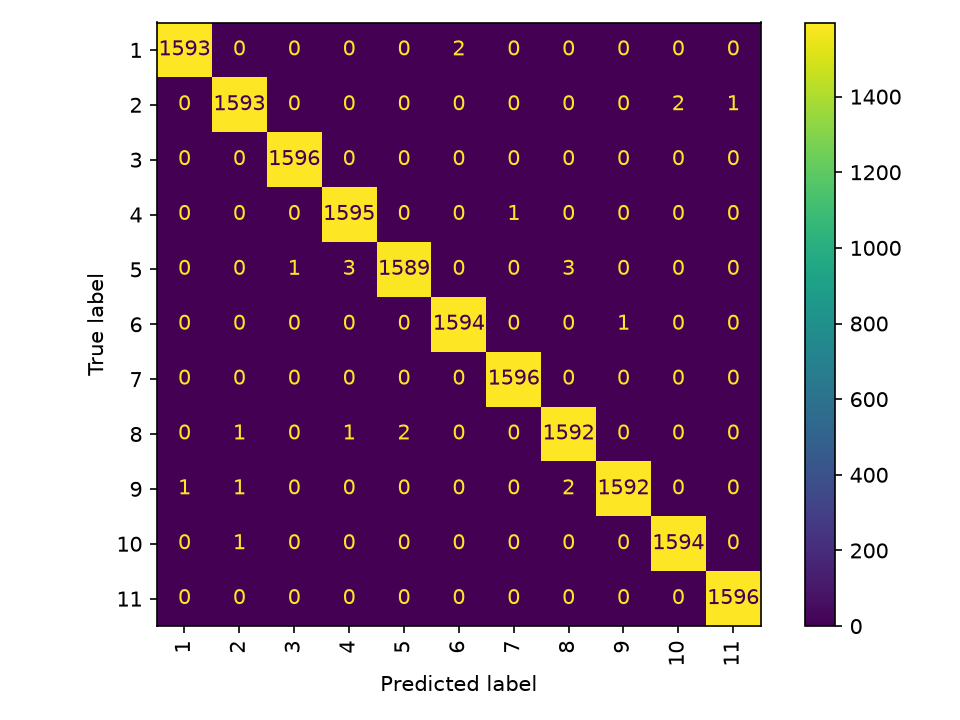
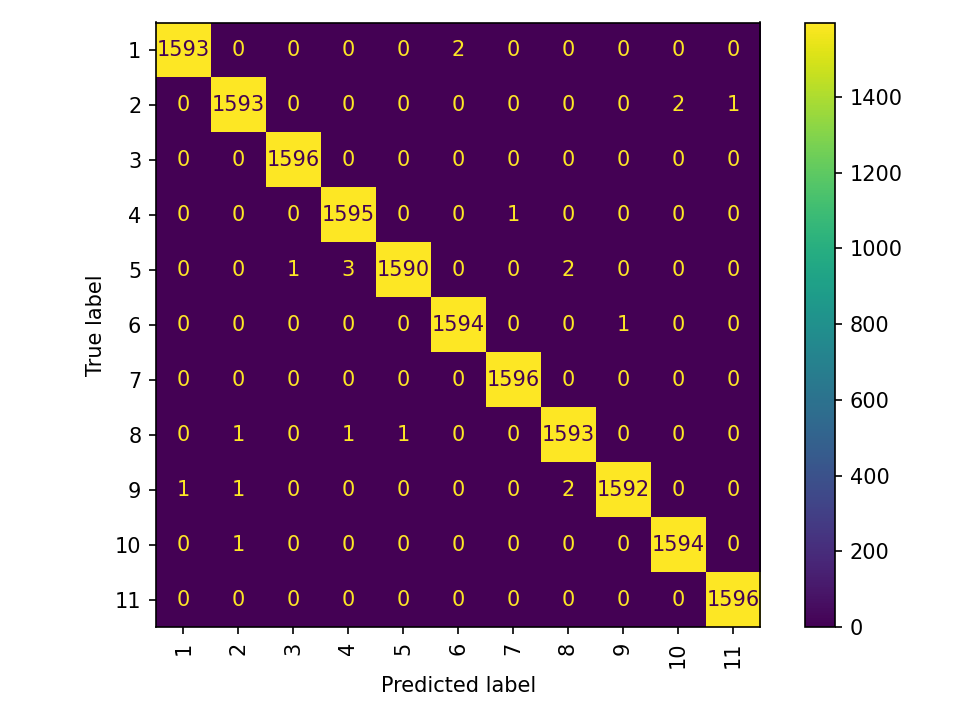
check reposirory

diff --git a/src/common.py b/src/common.py
@@ -1,4 +1,3 @@
-
 """
 Общие функции проекта Sensorless Drive Diagnosis (common.py).
 
@@ -86,20 +85,33 @@ scaler не возвращаем: для новых замеров в main.py х
 """
 
 
+
 def prepare(X_train, X_test):
     """
-    Сергей: z-нормализация без утечки теста.
-    1. StandardScaler.fit() — только на X_train.
-    2. К X_test применяется уже обученный scaler.
-    Возвращает: X_train, X_test — таблицы с теми же именами столбцов.
-    День 2: сюда добавятся решения Валерии (выбросы) и Юлии (лишние столбцы).
+    Нормализация без утечки данных:
+    параметры StandardScaler обучаются только на X_train.
+    Состав и порядок признаков должны совпадать.
     """
-    scaler = StandardScaler().fit(X_train)
-    X_train_s = pd.DataFrame(scaler.transform(X_train),
-                             columns=X_train.columns, index=X_train.index)
-    X_test_s = pd.DataFrame(scaler.transform(X_test),
-                            columns=X_test.columns, index=X_test.index)
-    return X_train_s, X_test_s
+    if not X_train.columns.equals(X_test.columns):
+        raise ValueError(
+            "X_train и X_test должны содержать одинаковые "
+            "столбцы в одинаковом порядке."
+        )
+
+    scaler = StandardScaler()
+    X_train_scaled = pd.DataFrame(
+        scaler.fit_transform(X_train),
+        columns=X_train.columns,
+        index=X_train.index,
+    )
+    X_test_scaled = pd.DataFrame(
+        scaler.transform(X_test),
+        columns=X_test.columns,
+        index=X_test.index,
+    )
+
+    return X_train_scaled, X_test_scaled
+
 
 
 """
@@ -146,7 +158,7 @@ def get_model(random_state=42):
     Настройки Жанны вносятся на день 3, после этого — заморозка.
     """
     return RandomForestClassifier(
-        n_estimators=200,
+        n_estimators=300,
         random_state=random_state,
         n_jobs=-1,
     )
@@ -184,4 +196,3 @@ if __name__ == '__main__':
     X_train_s, X_test_s = prepare(X_train, X_test)
     print(X_train_s.columns[:3].tolist())  # имена столбцов сохранились
     print(outliers(X_train, X).any(axis=1).mean())  # доля строк с выбросами
-

diff --git a/src/README.md b/src/README.md
@@ -1,0 +1,50 @@
+# День 1 — Sensorless Drive Diagnosis
+
+## Файлы
+
+- `common.py` — общие функции проекта.
+- `example.py` — минимальный сценарий: prepare → get_model → fit → evaluate.
+- `Sensorless_drive_diagnosis.txt` — исходные данные.
+
+## Что реализовано
+
+### `prepare()`
+
+- принимает исходный TXT или таблицу;
+- использует первые 48 столбцов как признаки;
+- последний столбец — класс;
+- выполняет stratified train/test split 70/30;
+- `StandardScaler.fit()` вызывается только на обучающей части;
+- тестовая часть преобразуется тем же scaler.
+
+Это предотвращает утечку информации из теста.
+
+### `evaluate()`
+
+Считает:
+
+- `accuracy_score`;
+- `f1_score(..., average="macro")`;
+- по запросу показывает `ConfusionMatrixDisplay`.
+
+### `get_model()`
+
+Возвращает `RandomForestClassifier`.
+
+Параметры модели пока базовые — это заготовка Дня 1. Финальные настройки из команды должны быть внесены позже.
+
+### `outliers()`
+
+Ищет строки, в которых хотя бы один из 48 признаков имеет:
+
+`|z| > 3`
+
+Функция только определяет строки с выбросами и ничего сама не удаляет.
+
+## Запуск
+
+Положите `Sensorless_drive_diagnosis.txt` рядом с `example.py` и `common.py`, затем:
+
+```bash
+python example.py
+```
